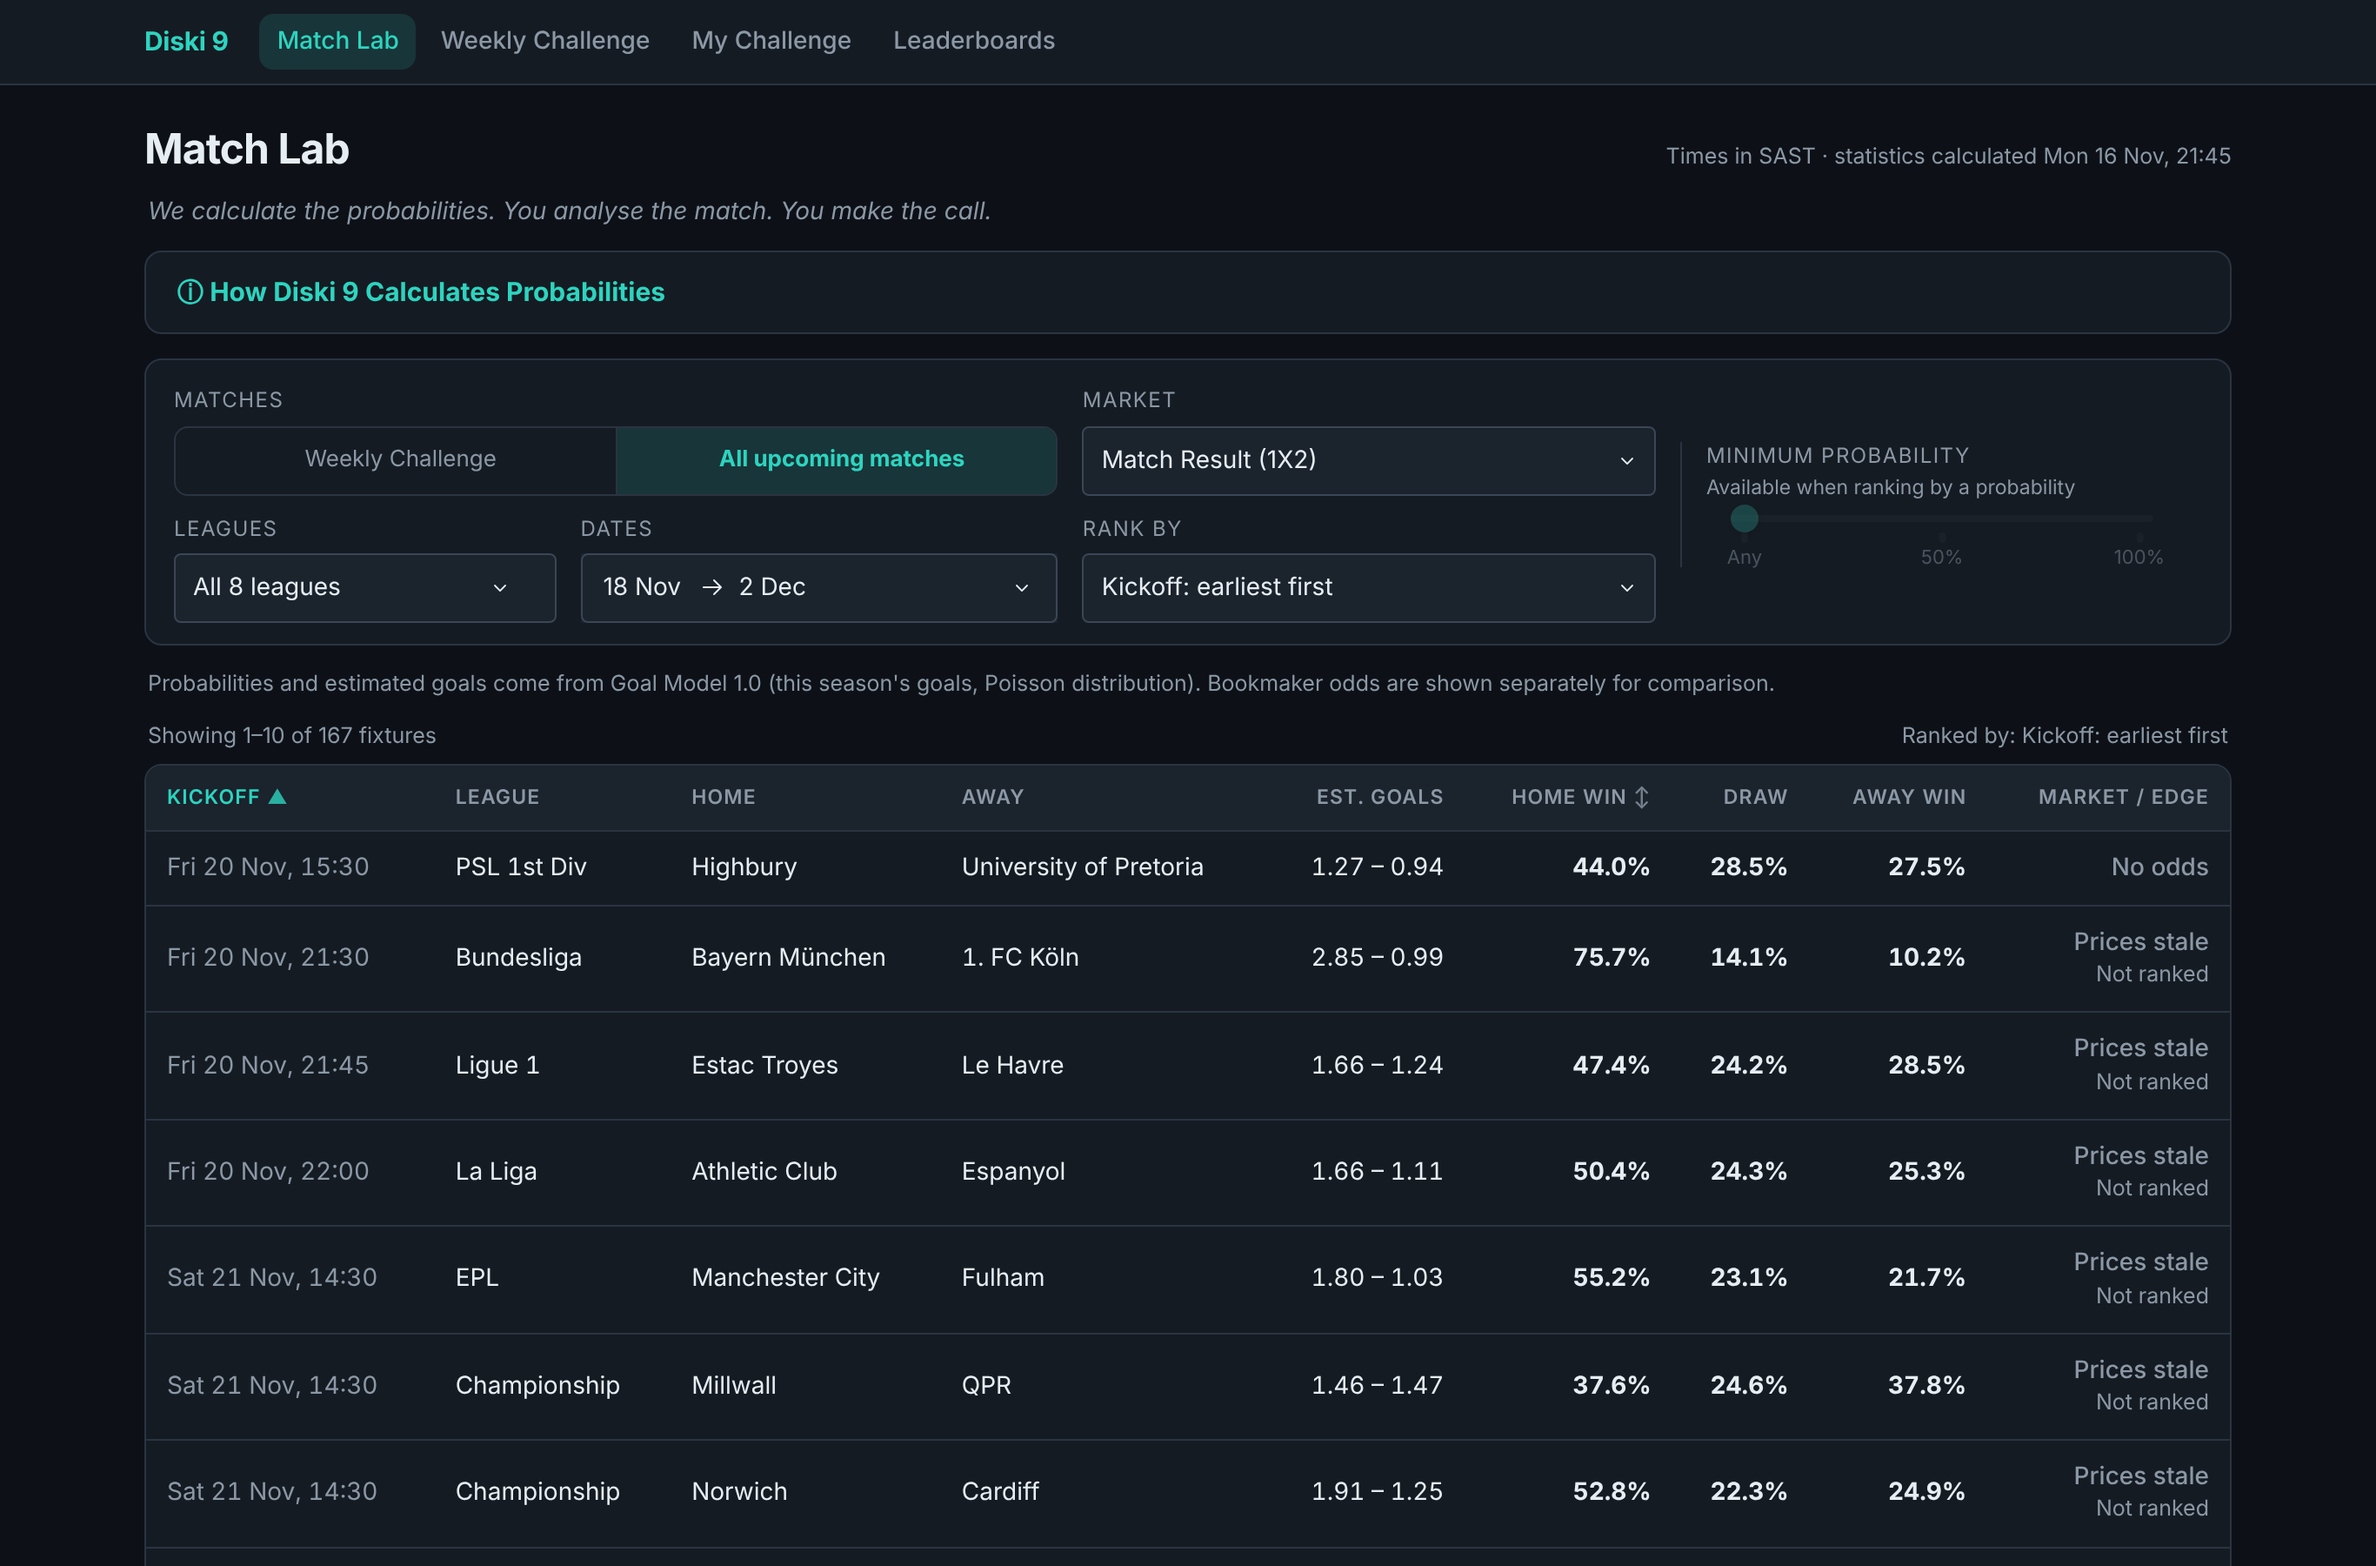
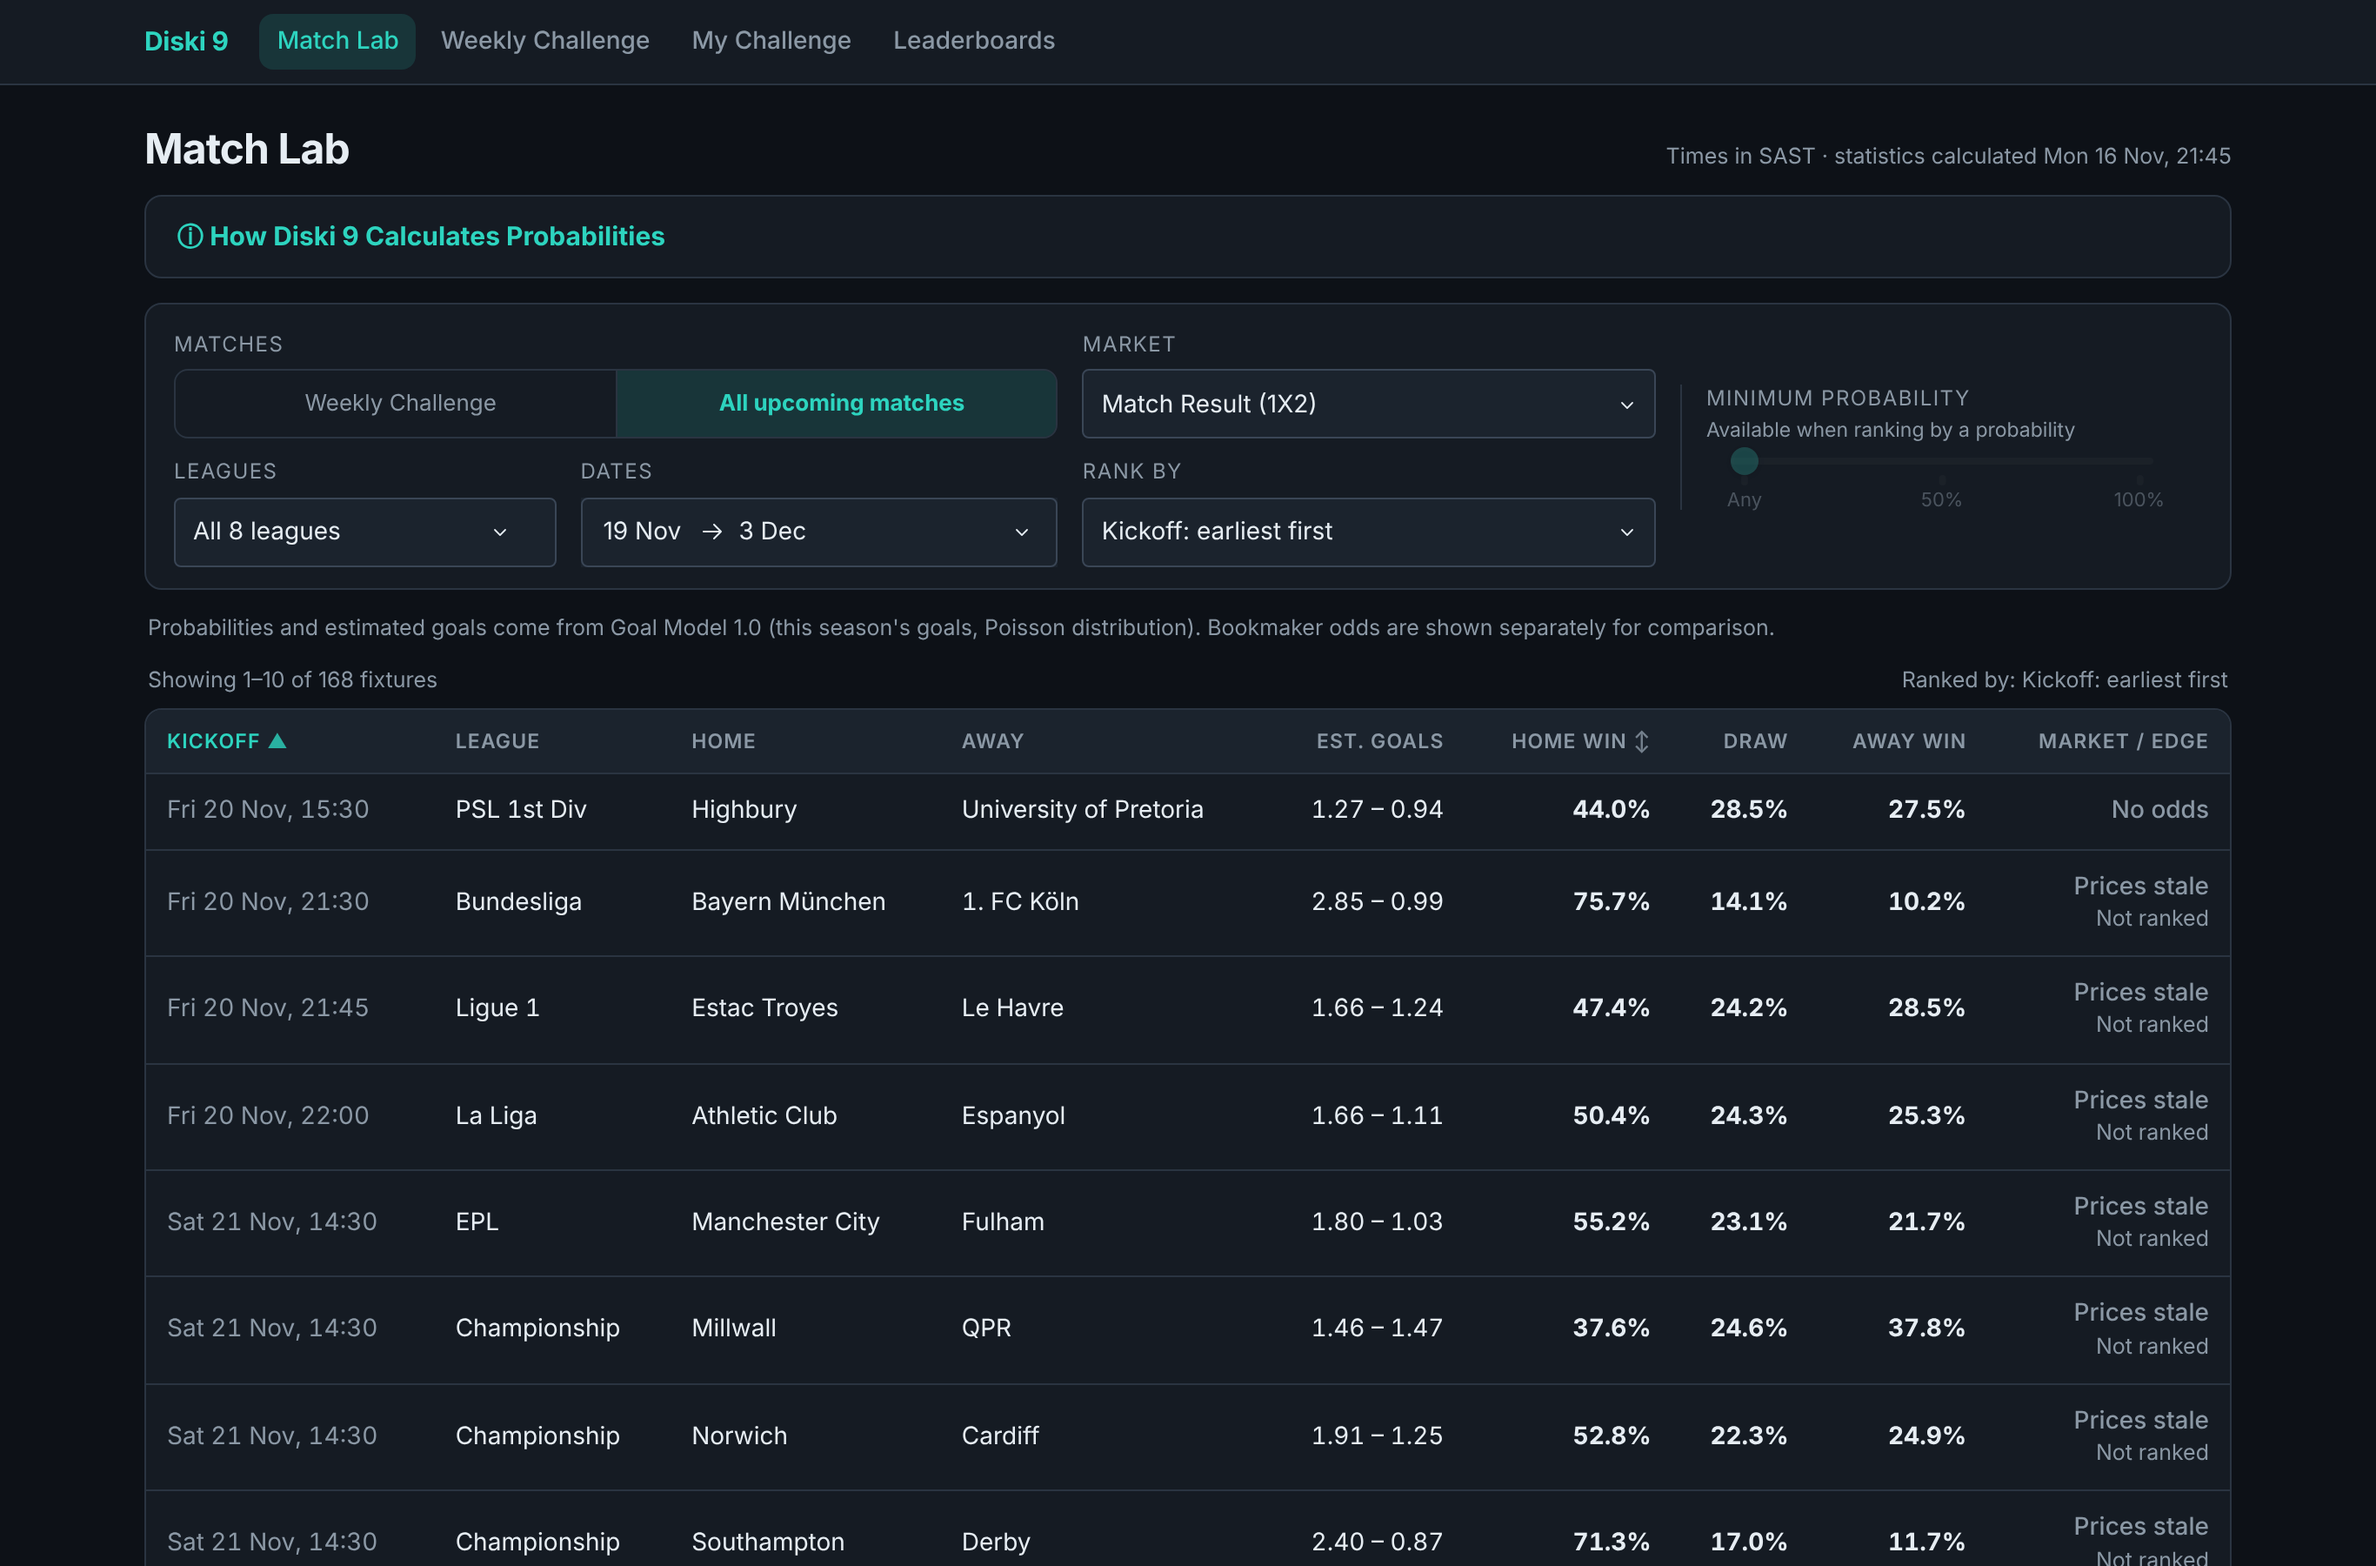
Phase 6B.3: remove the slogan from the Match Lab page
- Removed "We calculate the probabilities. You analyse the match. You make
  the call." from the Match Lab page header and from the Match analysis card
  subtitle, with the .tagline styles and spacing; the Match Lab header now
  spaces exactly like the other pages (card_head subtitle is optional).
- Tests and UI documentation updated; Match Lab header screenshot refreshed.

Claude-Session: https://claude.ai/code/session_01G8XHfLBAfQK8Kx4cyd1XFy

diff --git a/src/diski9/app/assets/style.css b/src/diski9/app/assets/style.css
@@ -339,7 +339,6 @@ details.more details.more { background: var(--surface-2); margin-top: 8px; }
 .venue-context .venue-team { font-weight: 600; }
 
 /* ------------------------------------------------ Engine 3.0: Match Lab */
-.tagline { margin: -4px 2px 14px; color: var(--muted); font-size: 14px; font-style: italic; }
 .methodology { padding: 0; margin-bottom: 14px; }
 .methodology > summary { cursor: pointer; padding: 12px 18px; font-weight: 650; color: var(--accent); list-style: none; }
 .methodology > summary::-webkit-details-marker { display: none; }
@@ -1165,7 +1164,6 @@ table.results td.value-cell { white-space: nowrap; }
 .page-head { display: flex; align-items: baseline; justify-content: space-between; gap: 6px 14px; flex-wrap: wrap; margin: 0 0 6px; }
 .page-head .ch-h1 { margin: 4px 0 2px; }
 .page-head .page-meta { margin-left: auto; }
-.page .tagline { margin: 0 2px 12px; }
 @media (max-width: 720px) { .page-head .page-meta { margin-left: 0; flex-basis: 100%; } }
 
 /* ===================== Phase 6B.3: readable Match Lab filters =====================

diff --git a/src/diski9/app/app.py b/src/diski9/app/app.py
@@ -2,8 +2,6 @@
 
 Run: ``uv run diski9 serve`` (defaults to http://127.0.0.1:8050).
 
-"We calculate the probabilities. You analyse the match. You make the call."
-
 The results list is a plain HTML table (desktop) / card list (phones) rendered
 server-side, ten fixtures per page, ranked by the Goal Model 1.0 probability of
 the chosen outcome. Selecting a fixture opens The Match Lab: the statistical
@@ -300,10 +298,6 @@ def build_layout(data: ScreenerData, universe: str = "all") -> html.Div:
                 "Match Lab",
                 f"Times in {data.tz_label} · statistics calculated "
                 f"{data.local(snap.cache_calculated_at)}",
-            ),
-            html.P(
-                "We calculate the probabilities. You analyse the match. You make the call.",
-                className="tagline",
             ),
             *banner,
             methodology_section(),

diff --git a/src/diski9/app/lab.py b/src/diski9/app/lab.py
@@ -1,7 +1,5 @@
 """The Match Lab and the statistical baseline (Engine 3.0, Goal Model 1.0).
 
-"We calculate the probabilities. You analyse the match. You make the call."
-
 Detail panel for a selected fixture:
 
   Heading          fixture, competition, kickoff, market
@@ -1496,10 +1494,7 @@ def render_detail(
             state["cats"][k]["home"] = state["cats"][k]["away"] = 0.0
     lab = html.Section(
         [
-            card_head(
-                "Match analysis",
-                "We calculate the probabilities. You analyse the match. You make the call.",
-            ),
+            card_head("Match analysis"),
             baseline_section(r, market),
             context_section(r, market, official, state),
             factors_section(r, state),

diff --git a/tests/test_detail_layout.py b/tests/test_detail_layout.py
@@ -43,9 +43,9 @@ def test_match_lab_then_bookmaker_card_in_every_market(data, market):
     r, ov, official = data.detail(EPL_FIX, "overall")
     d = render_detail(r, ov, official, market, data)
     lab, market_card = cards(d)
-    assert _text(lab).startswith(
-        "Match analysis We calculate the probabilities. You analyse the match. You make the call."
-    )
+    assert " ".join(_text(lab).split()).startswith(
+        "Match analysis A. Statistical baseline"
+    )  # no slogan
     assert [_text(s).split(" ", 2)[:2] for s in sections(lab)] == [
         ["A.", "Statistical"],
         ["B.", "Match"],

diff --git a/tests/test_playtest_refinement.py b/tests/test_playtest_refinement.py
@@ -304,7 +304,8 @@ def test_navigation_and_page_headings_are_consistent(data):  # noqa: F811
     app = create_app(data)
     layout = app.server.test_client().get("/_dash-layout").get_data(as_text=True)
     assert "Screener & Match Lab" not in layout
-    assert "We calculate the probabilities. You analyse the match. You make the call." in layout
+    assert "We calculate the probabilities" not in layout  # slogan removed (final amendment)
+    assert "tagline" not in layout
     service = ChallengeService(data)
     heads = {
         "Match Lab": layout,

diff --git a/src/diski9/app/views.py b/src/diski9/app/views.py
@@ -125,9 +125,12 @@ def signed_class(value: float | None) -> str:
 
 
 # ------------------------------------------------------------- card helpers
-def card_head(title: str, subtitle: str) -> html.Div:
+def card_head(title: str, subtitle: str | None = None) -> html.Div:
     return html.Div(
-        [html.H3(title), html.Div(subtitle, className="card-sub muted small")],
+        [
+            html.H3(title),
+            html.Div(subtitle, className="card-sub muted small") if subtitle else None,
+        ],
         className="card-head",
     )
 

diff --git a/docs/weekly_challenge_ui.md b/docs/weekly_challenge_ui.md
@@ -14,7 +14,9 @@
 Challenge · My Challenge · Leaderboards. The page at `/` is the **Match Lab**
 (route, modules and ids unchanged); its heading is "Match Lab" alone, rendered by
 the same `components.page_header` as the other three pages (same element, size,
-weight, colour, spacing and alignment). The tagline stays. The per-match card is
+weight, colour, spacing and alignment). The former slogan ("We calculate the
+probabilities…") was removed from the page and from the match-analysis card, with
+its spacing, at the product owner's request. The per-match card is
 titled "Match analysis".
 
 **Filters.** Columns are sized for the longest values ("Both Teams to Score
